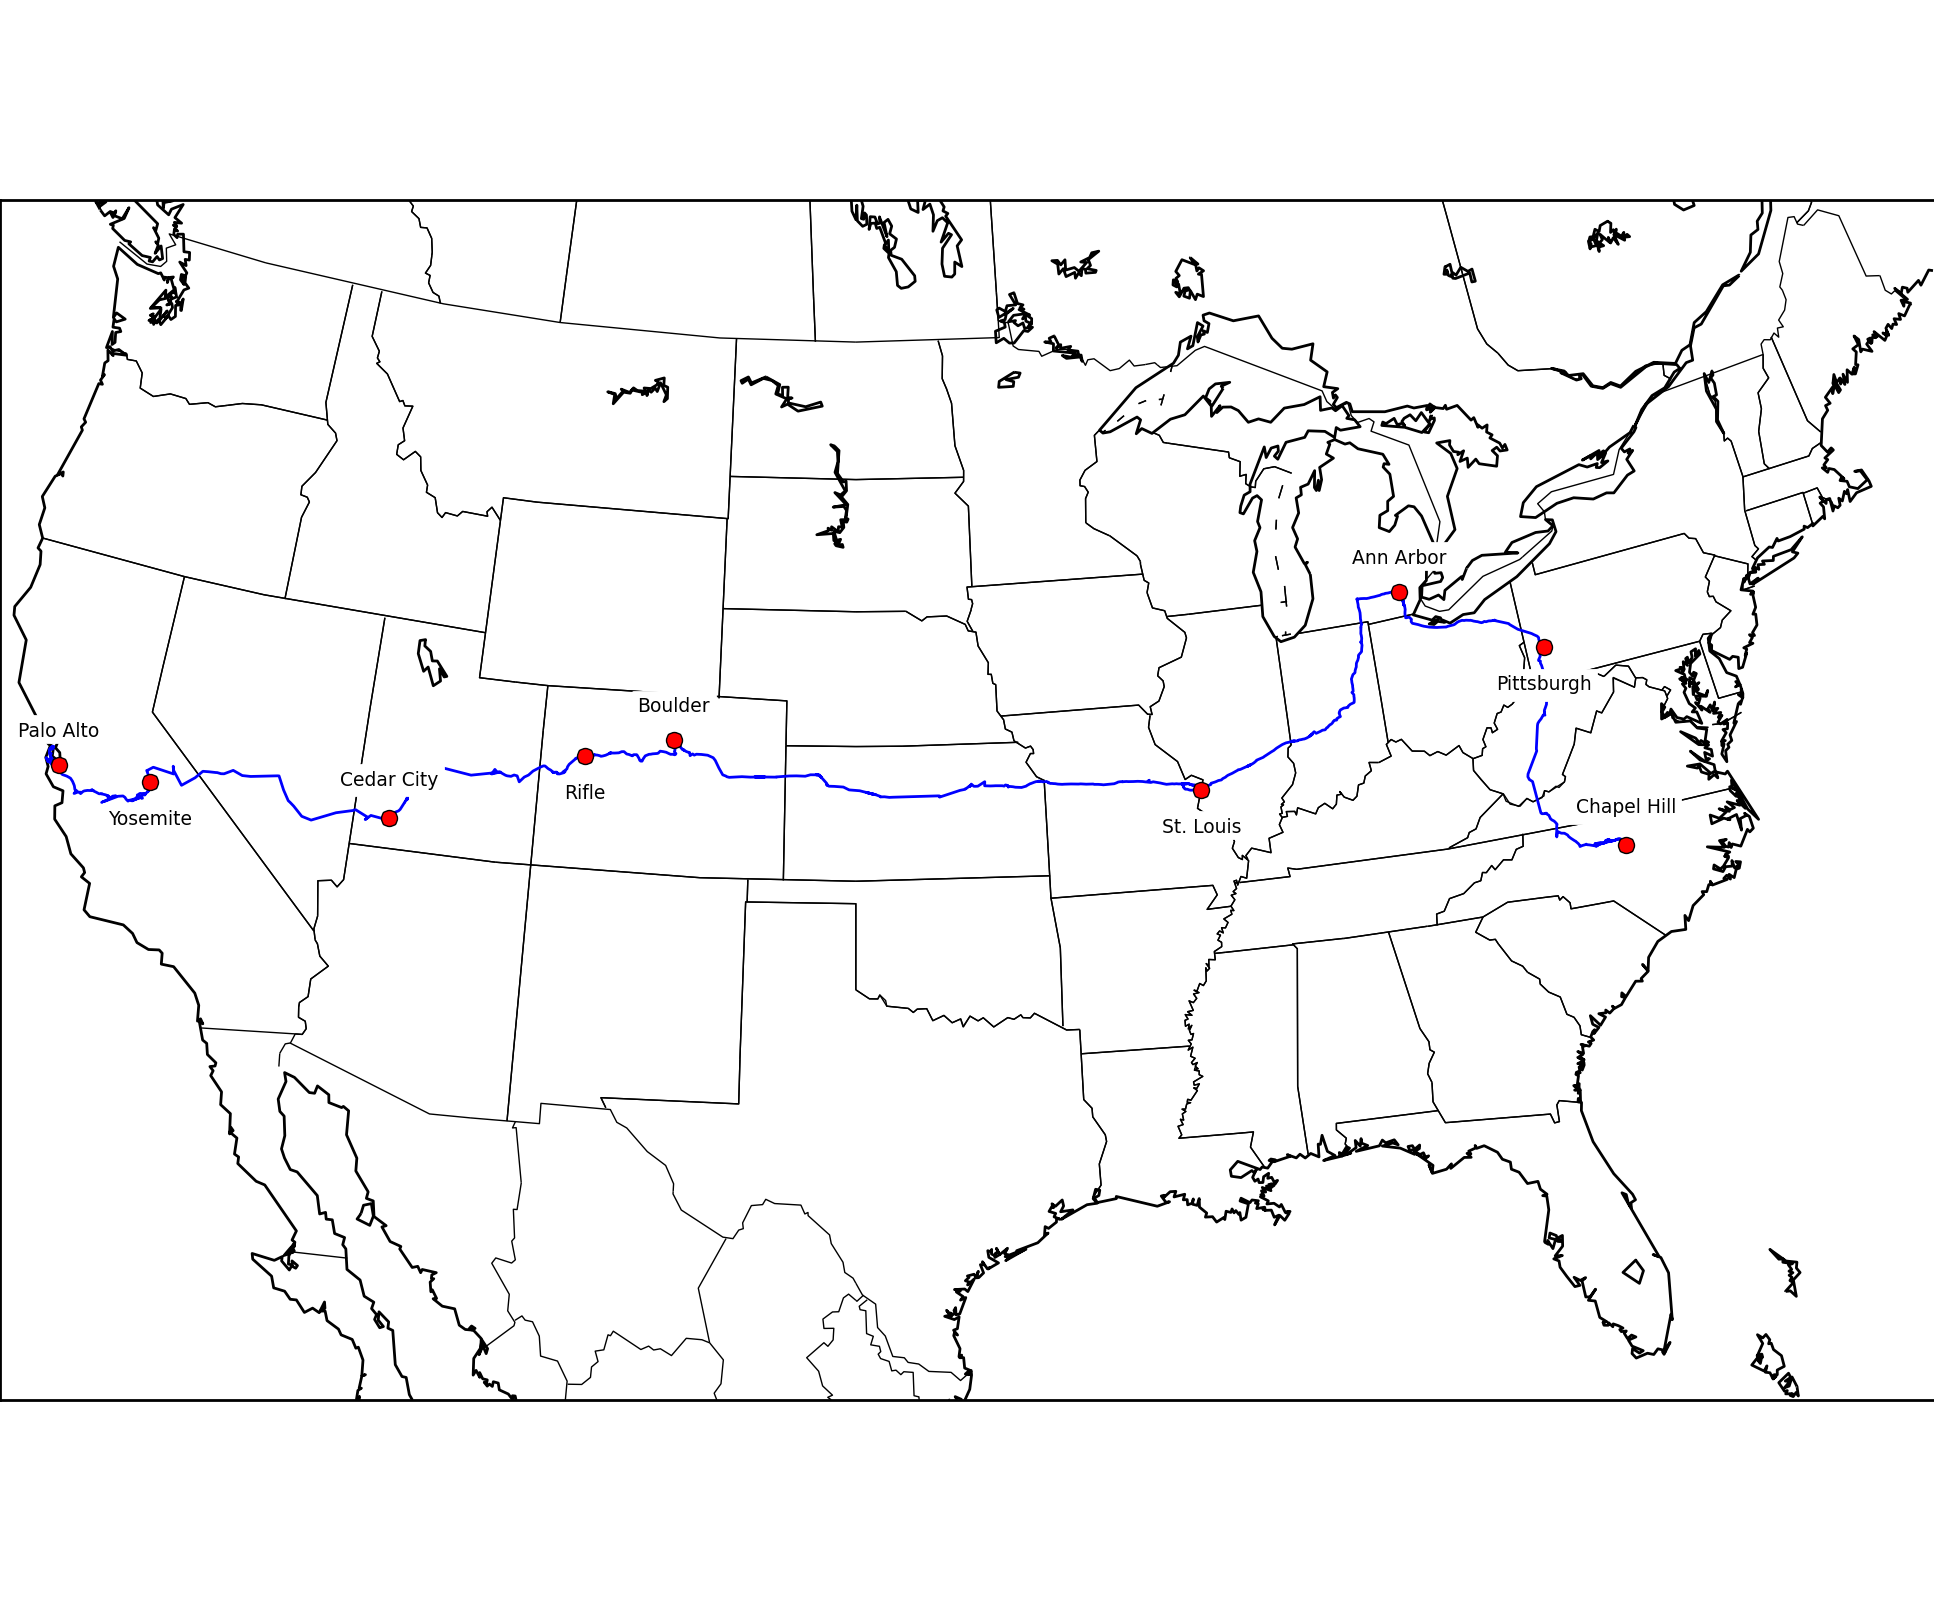
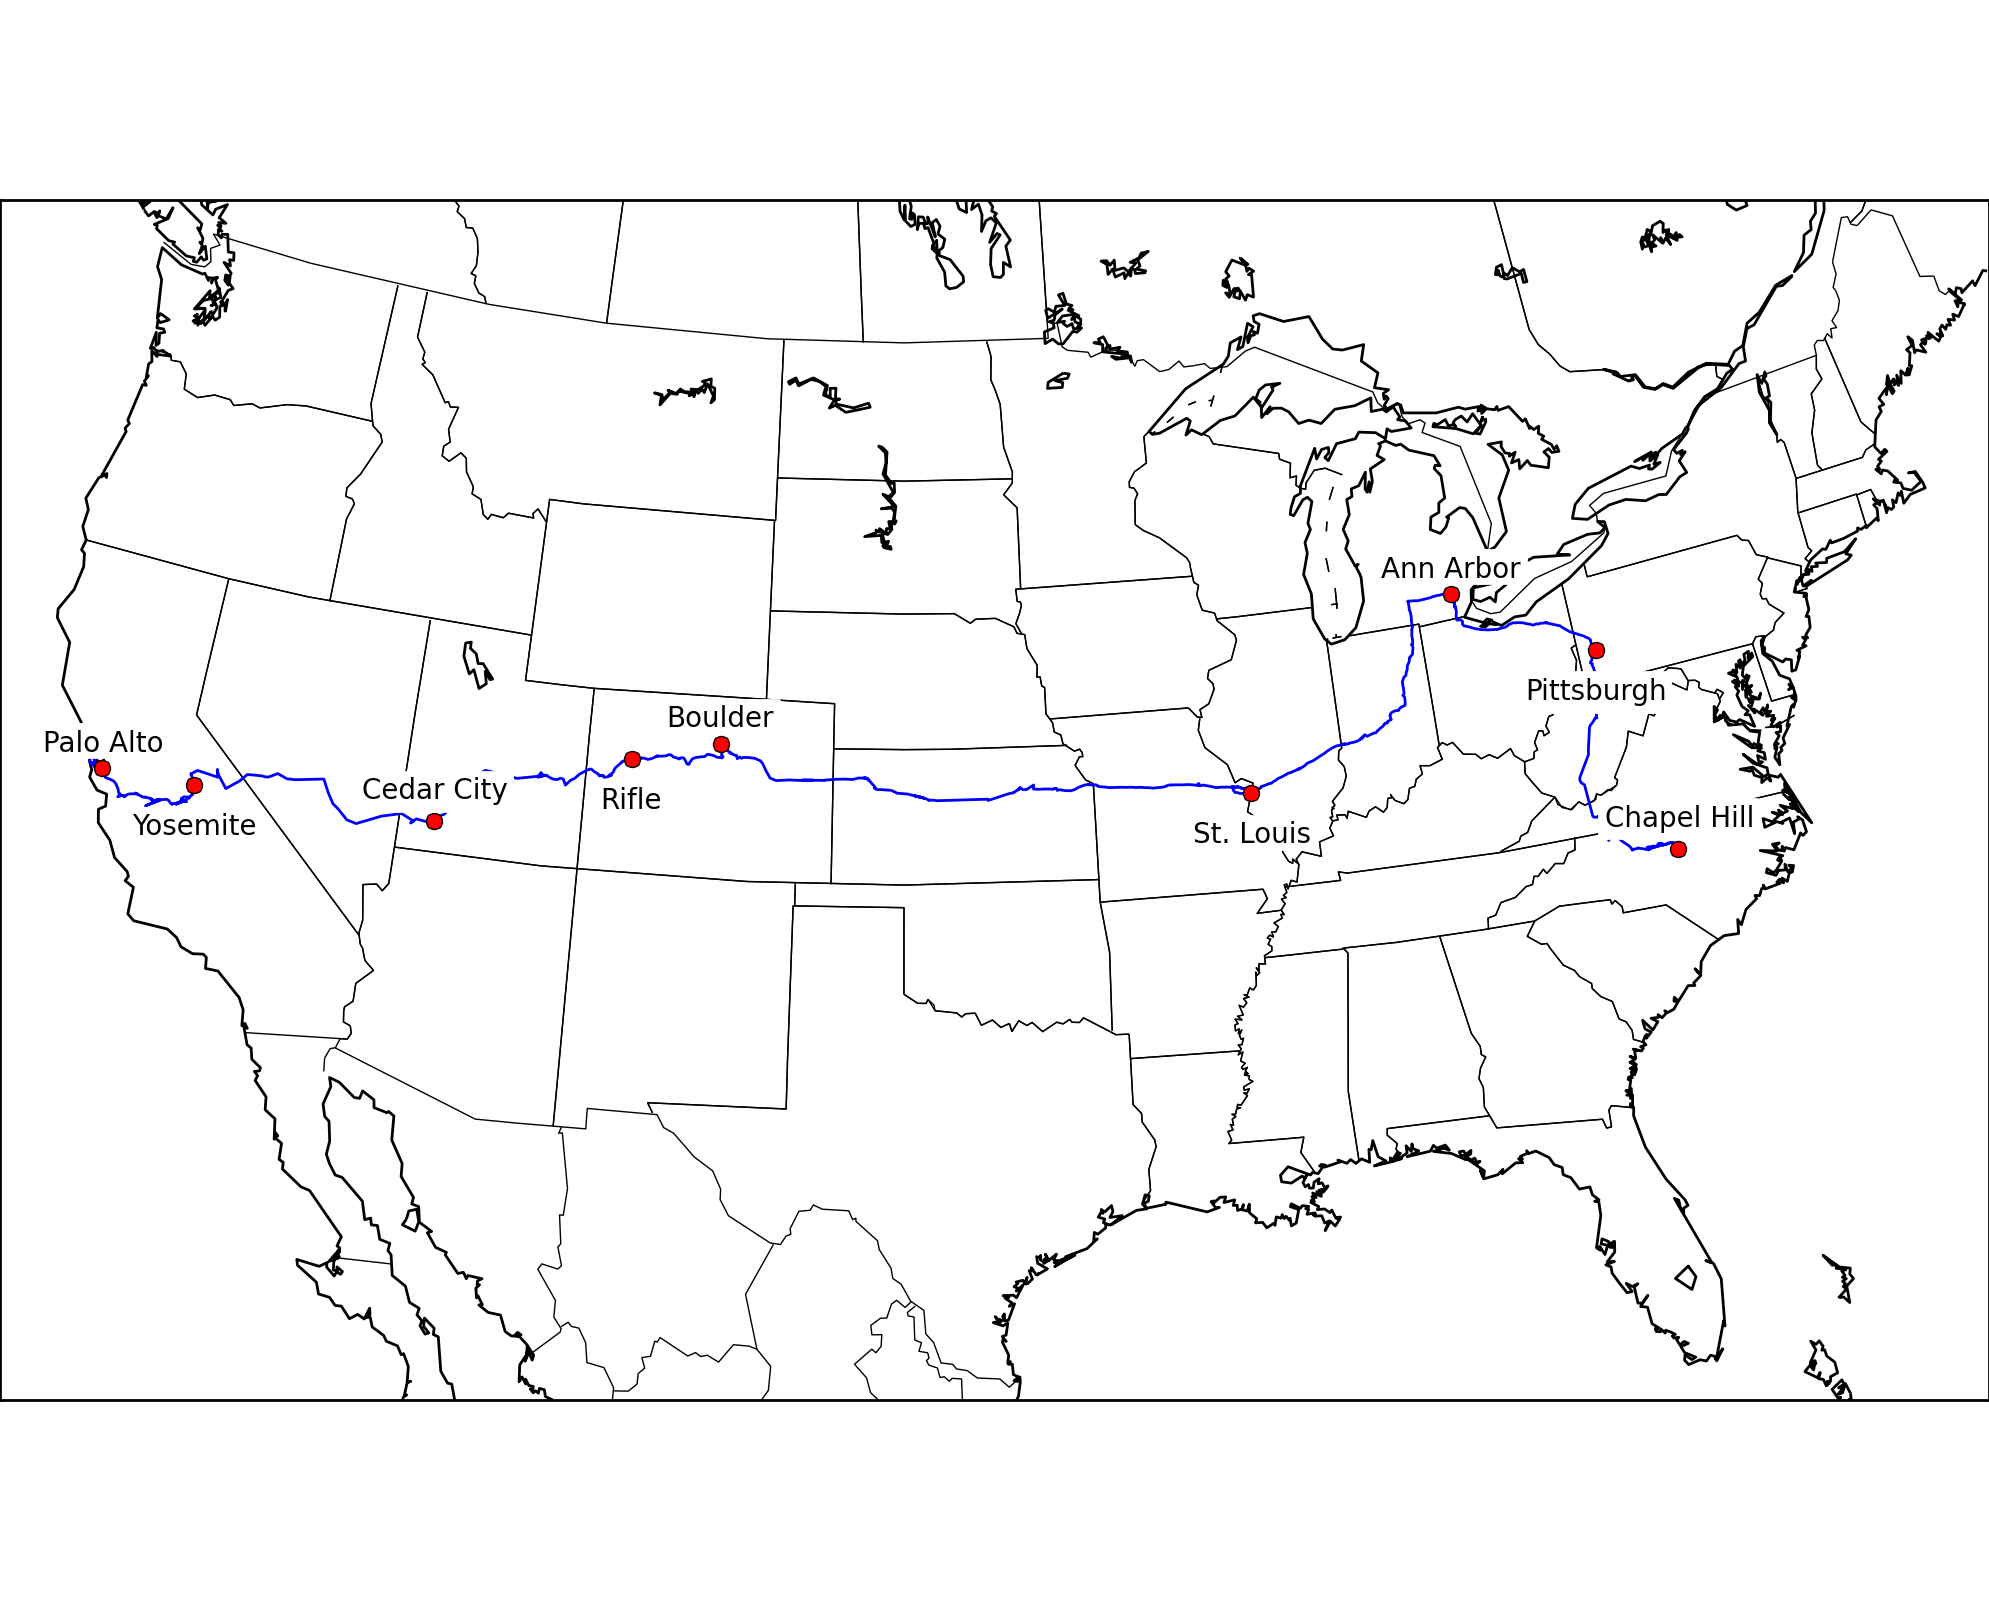
Random Visual Designing

diff --git a/USMapFromLat.py b/USMapFromLat.py
@@ -9,7 +9,7 @@ import csv
 from itertools import *
 
 #request section of Basemap in latitude longitude box
-m = Basemap(llcrnrlon= -120.5,\
+m = Basemap(llcrnrlon= -121.5,\
             llcrnrlat=24, \
             urcrnrlon= -65, \
             urcrnrlat = 46.5, \
@@ -71,11 +71,11 @@ m.plot(xstops, ystops,'ro')
 #Annotate
 for oddAnnotate,xOddStops,yOddStops,evenAnnotate,xEvenStops,yEvenStops in izip_longest(annotations[0::2],xstops[0::2],ystops[0::2],annotations[1::2],xstops[1::2],ystops[1::2]):
 #This is necessary because looping consecutively through xstops and ystops twice returns TypeError: 'float' object has no attribute '__getitem__'.  This generates six lists temporarily in the scope of the for loop.
-    plt.annotate(oddAnnotate,xy=(xOddStops,yOddStops),xytext=(xOddStops,yOddStops+70000),fontsize='6.75',horizontalalignment=
+    plt.annotate(oddAnnotate,xy=(xOddStops,yOddStops),xytext=(xOddStops,yOddStops+40000),fontsize='10',horizontalalignment=
                 'center', verticalalignment='bottom',backgroundcolor='white')
     if evenAnnotate == None:
         break
-    plt.annotate(evenAnnotate,xy=(xEvenStops,yEvenStops),xytext=(xEvenStops,yEvenStops-70000),fontsize='6.75',horizontalalignment=
+    plt.annotate(evenAnnotate,xy=(xEvenStops,yEvenStops),xytext=(xEvenStops,yEvenStops-70000),fontsize='10',horizontalalignment=
                 'center', verticalalignment='top',backgroundcolor='white')
 
 #Probably the more correct way to do things, where [::2] gives odds starting with index [0] and [1::2] gives evens starting with index [1]
